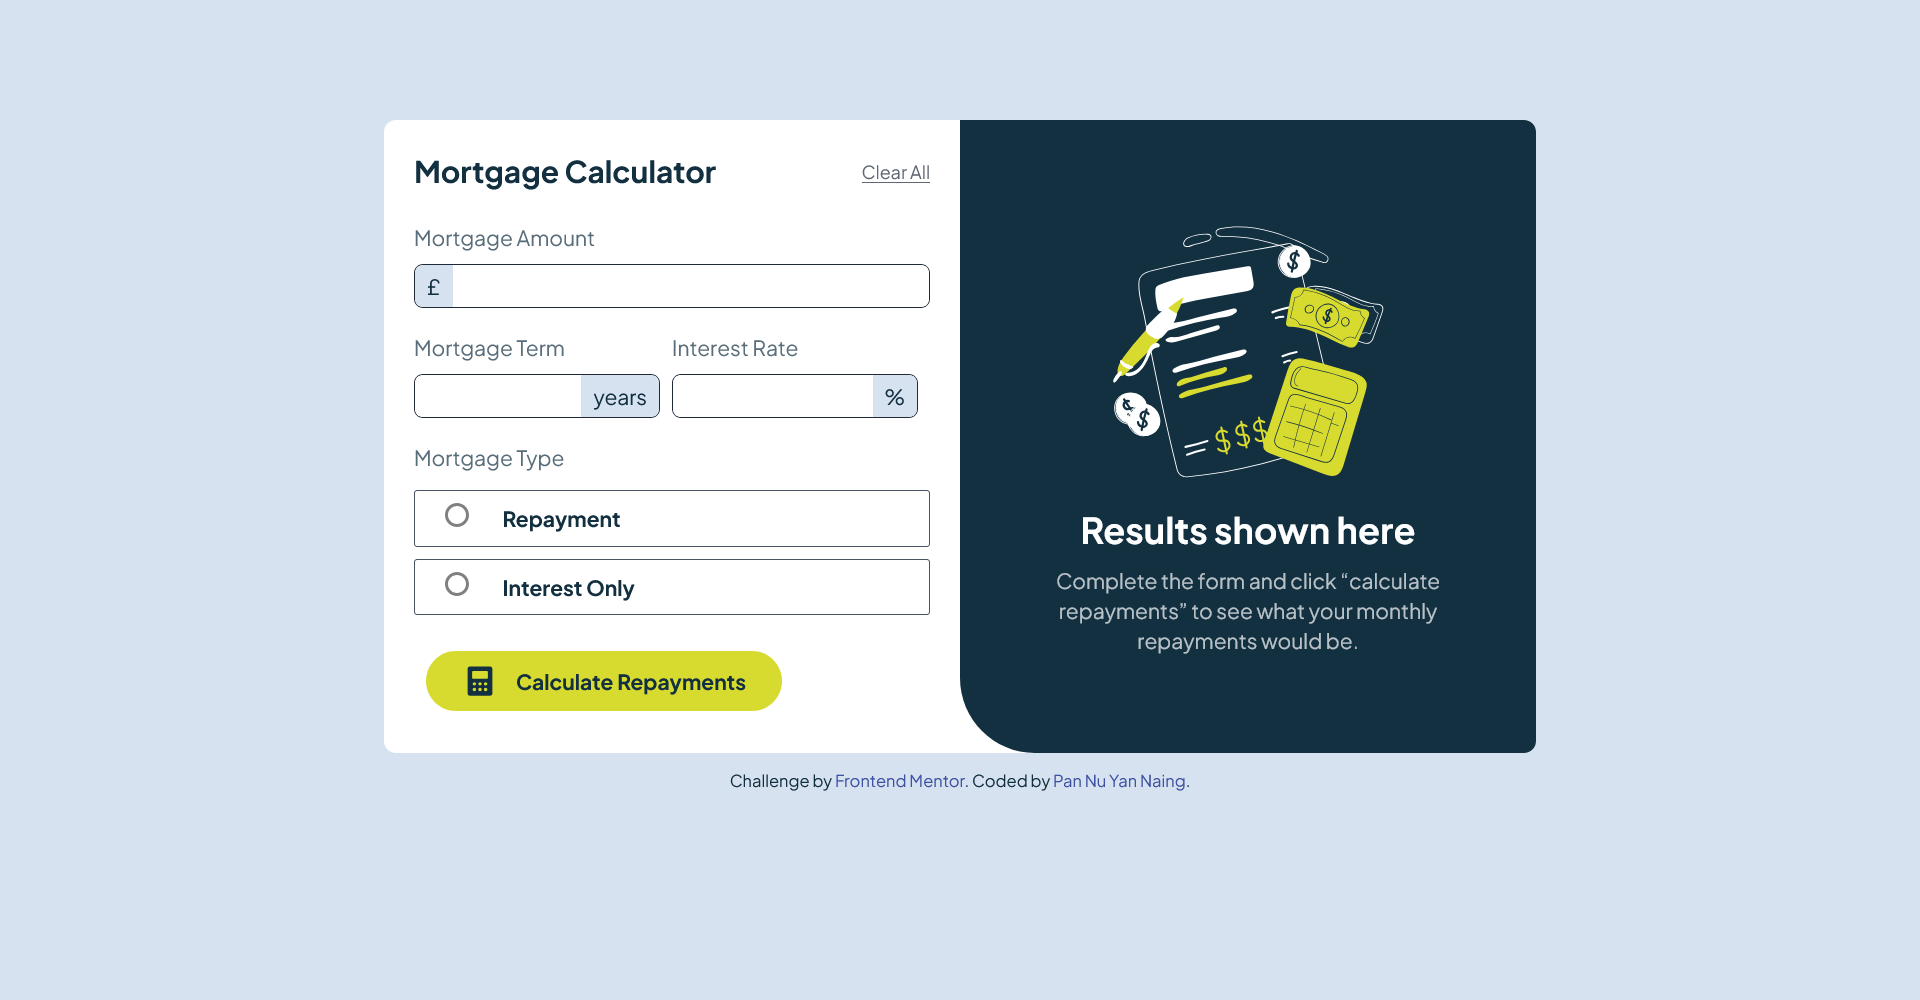
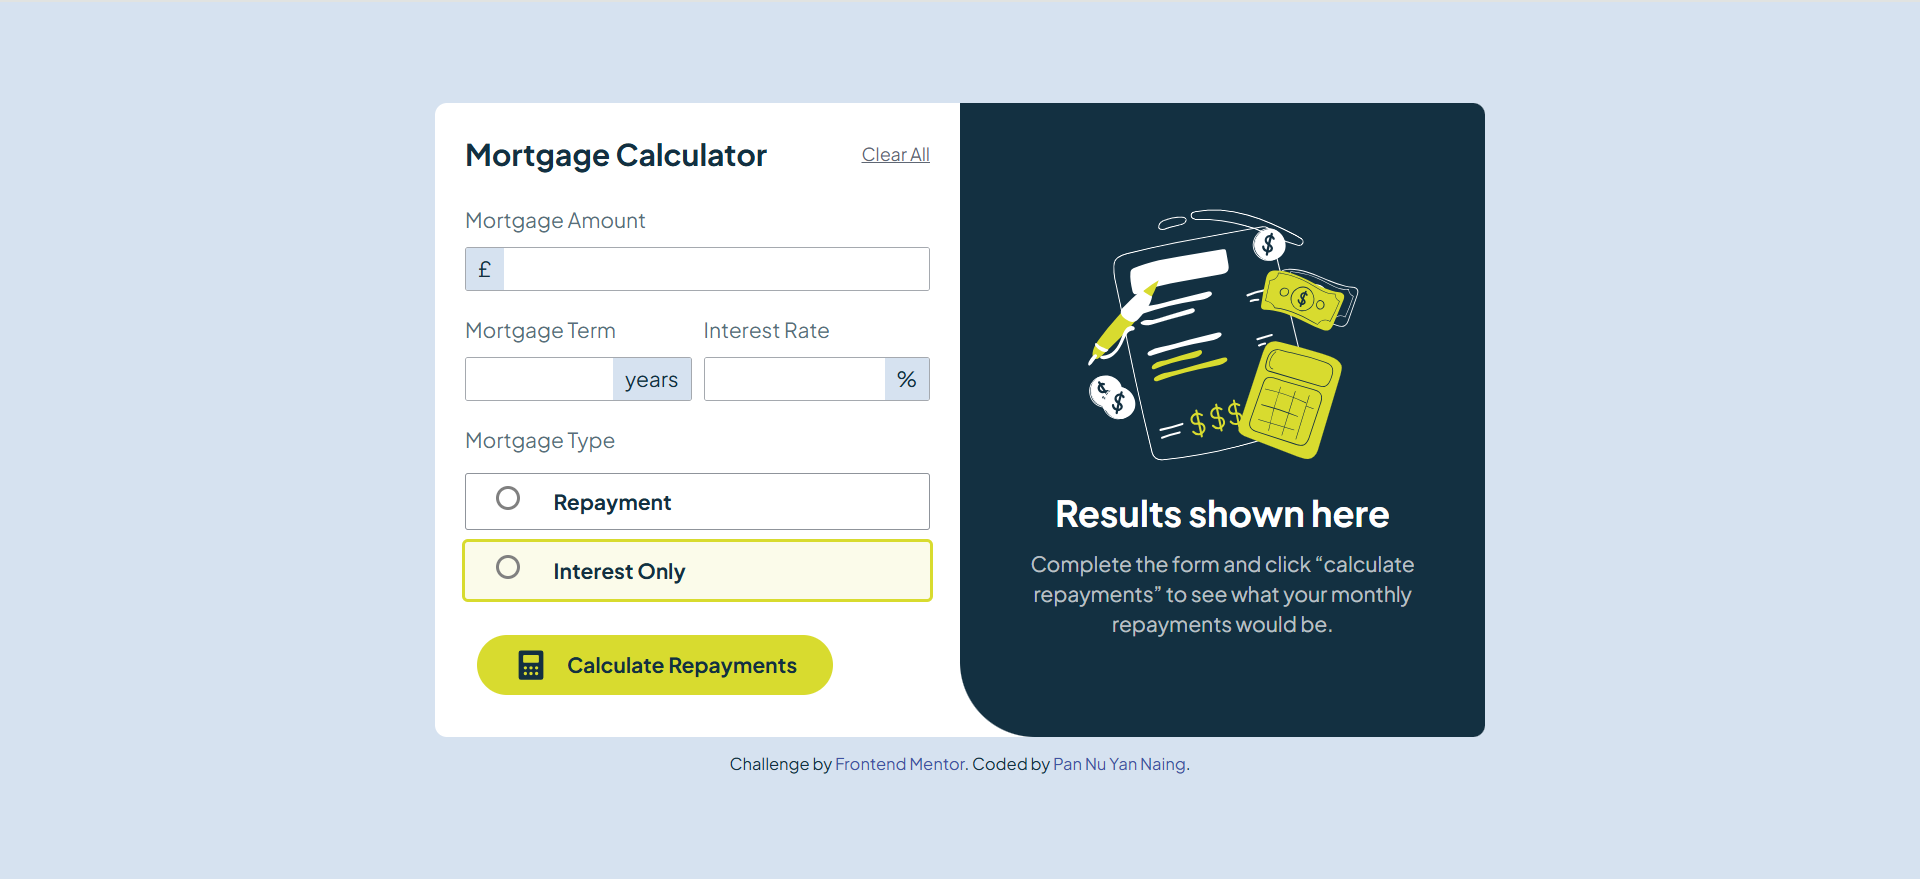
completed

Changed region(s): [[0.1875, 0.0922, 0.8125, 0.8908], [0.4375, 0.1536, 0.5, 0.1843]]

diff --git a/index.html b/index.html
@@ -43,7 +43,7 @@
   </head>
   <body
     class="font-jakarta text-customBlue bg-inputSpan lg:text-sm min-h-screen flex flex-col items-center justify-center">
-    <div class="bg-white lg:flex p-0 lg:w-[60%] mx-auto lg:rounded-lg">
+    <div class="bg-white lg:flex p-0 lg:w-[700px] mx-auto lg:rounded-lg">
 
       <!-- form section (left) -->
       <form class="p-5 flex flex-col gap-1 lg:w-1/2"
@@ -123,7 +123,7 @@
 
         <!-- submit button -->
         <button type="submit"
-          class="cursor-smallFist lg:mr-auto m-2 px-6 py-3 lg:py-2 bg-customYellow rounded-full flex justify-center items-center hover:bg-customYellow/50">
+          class="mt-5 cursor-smallFist lg:mr-auto m-2 px-6 py-3 lg:py-2 bg-customYellow rounded-full flex justify-center items-center hover:bg-customYellow/50">
           <img src="./assets/images/icon-calculator.svg" class="mr-3" />
           <span class="font-bold lg:text-md text-sm">Calculate Repayments</span>
         </button>

diff --git a/README.md b/README.md
@@ -27,9 +27,9 @@ Users should be able to:
 
 ### Screenshot
 
-![desktop view (empty, hover)](image-3.png)
+![desktop view (empty, hover)](image.png)
 ![desktop view (completed)](image-1.png)
-![mobile view (error)](image-5.png)
+![mobile view (error)](image-2.png)
 
 ### Links
 
